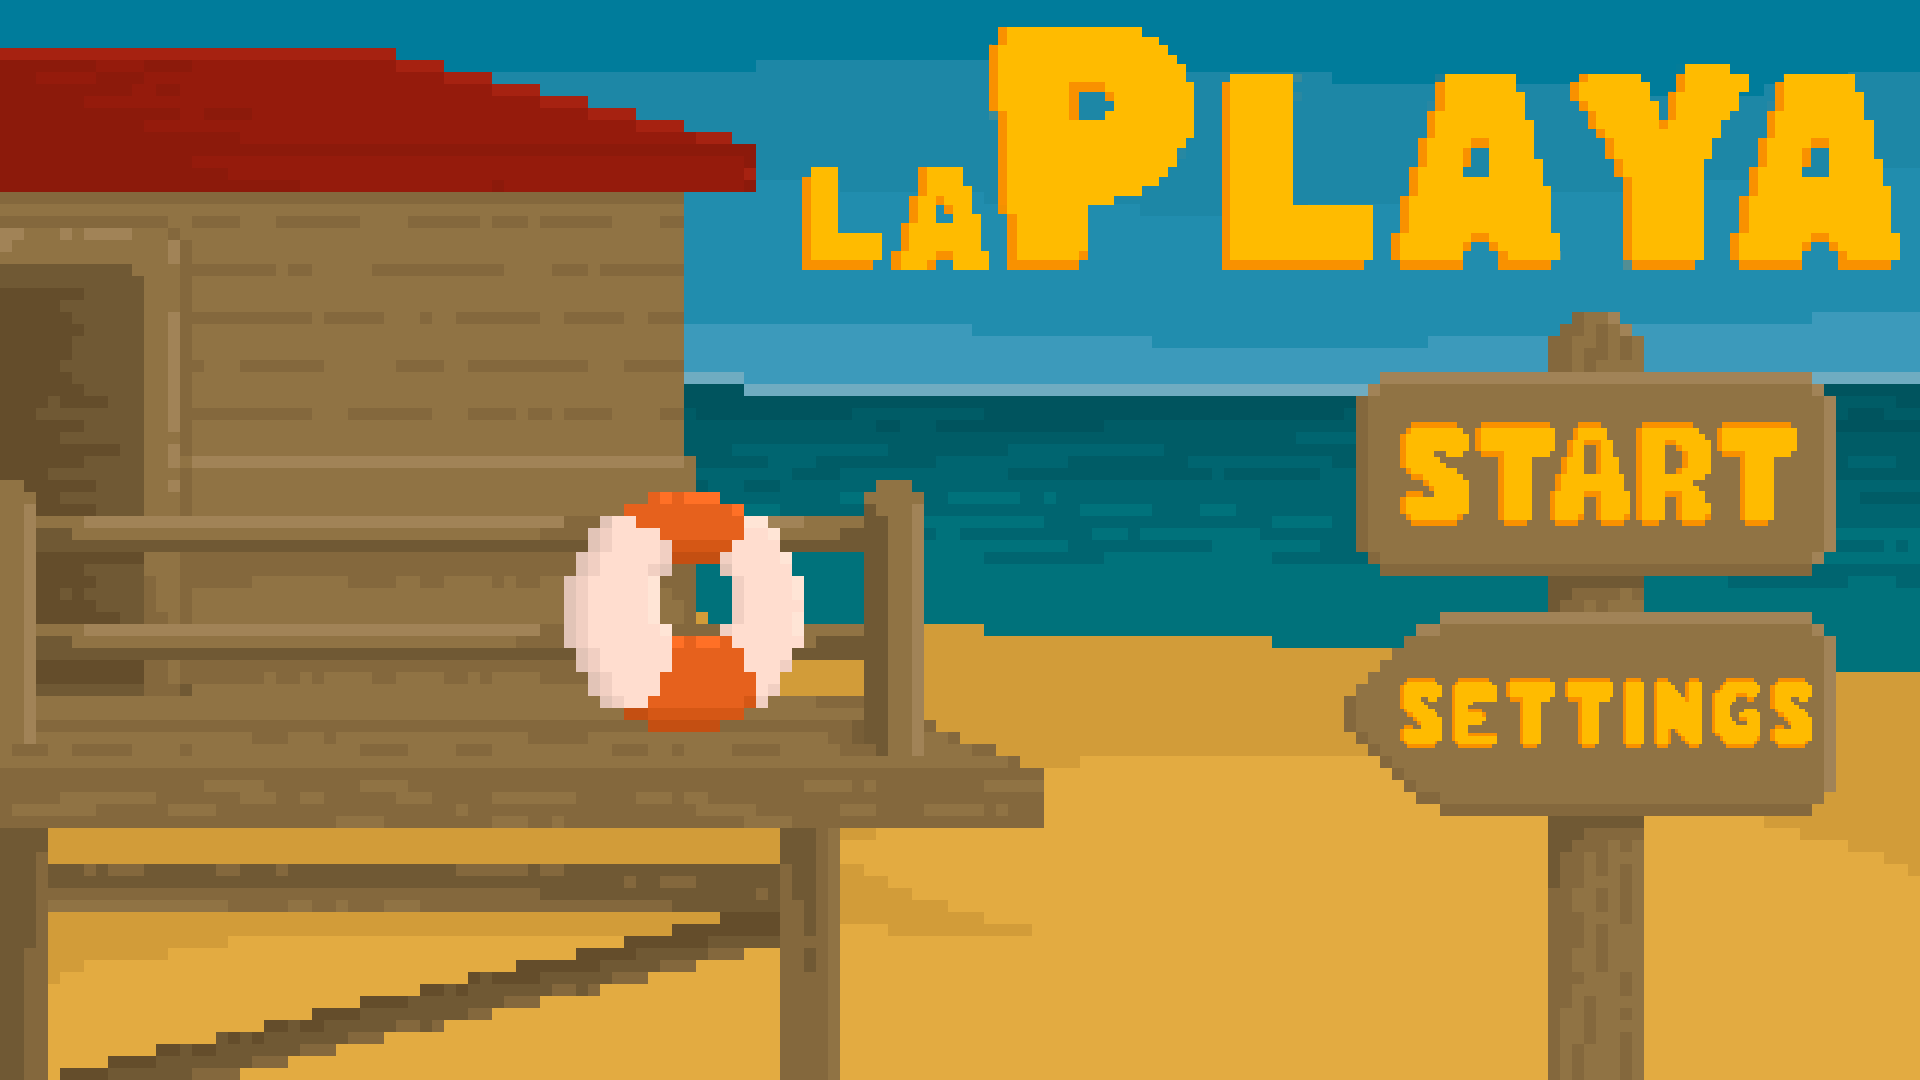
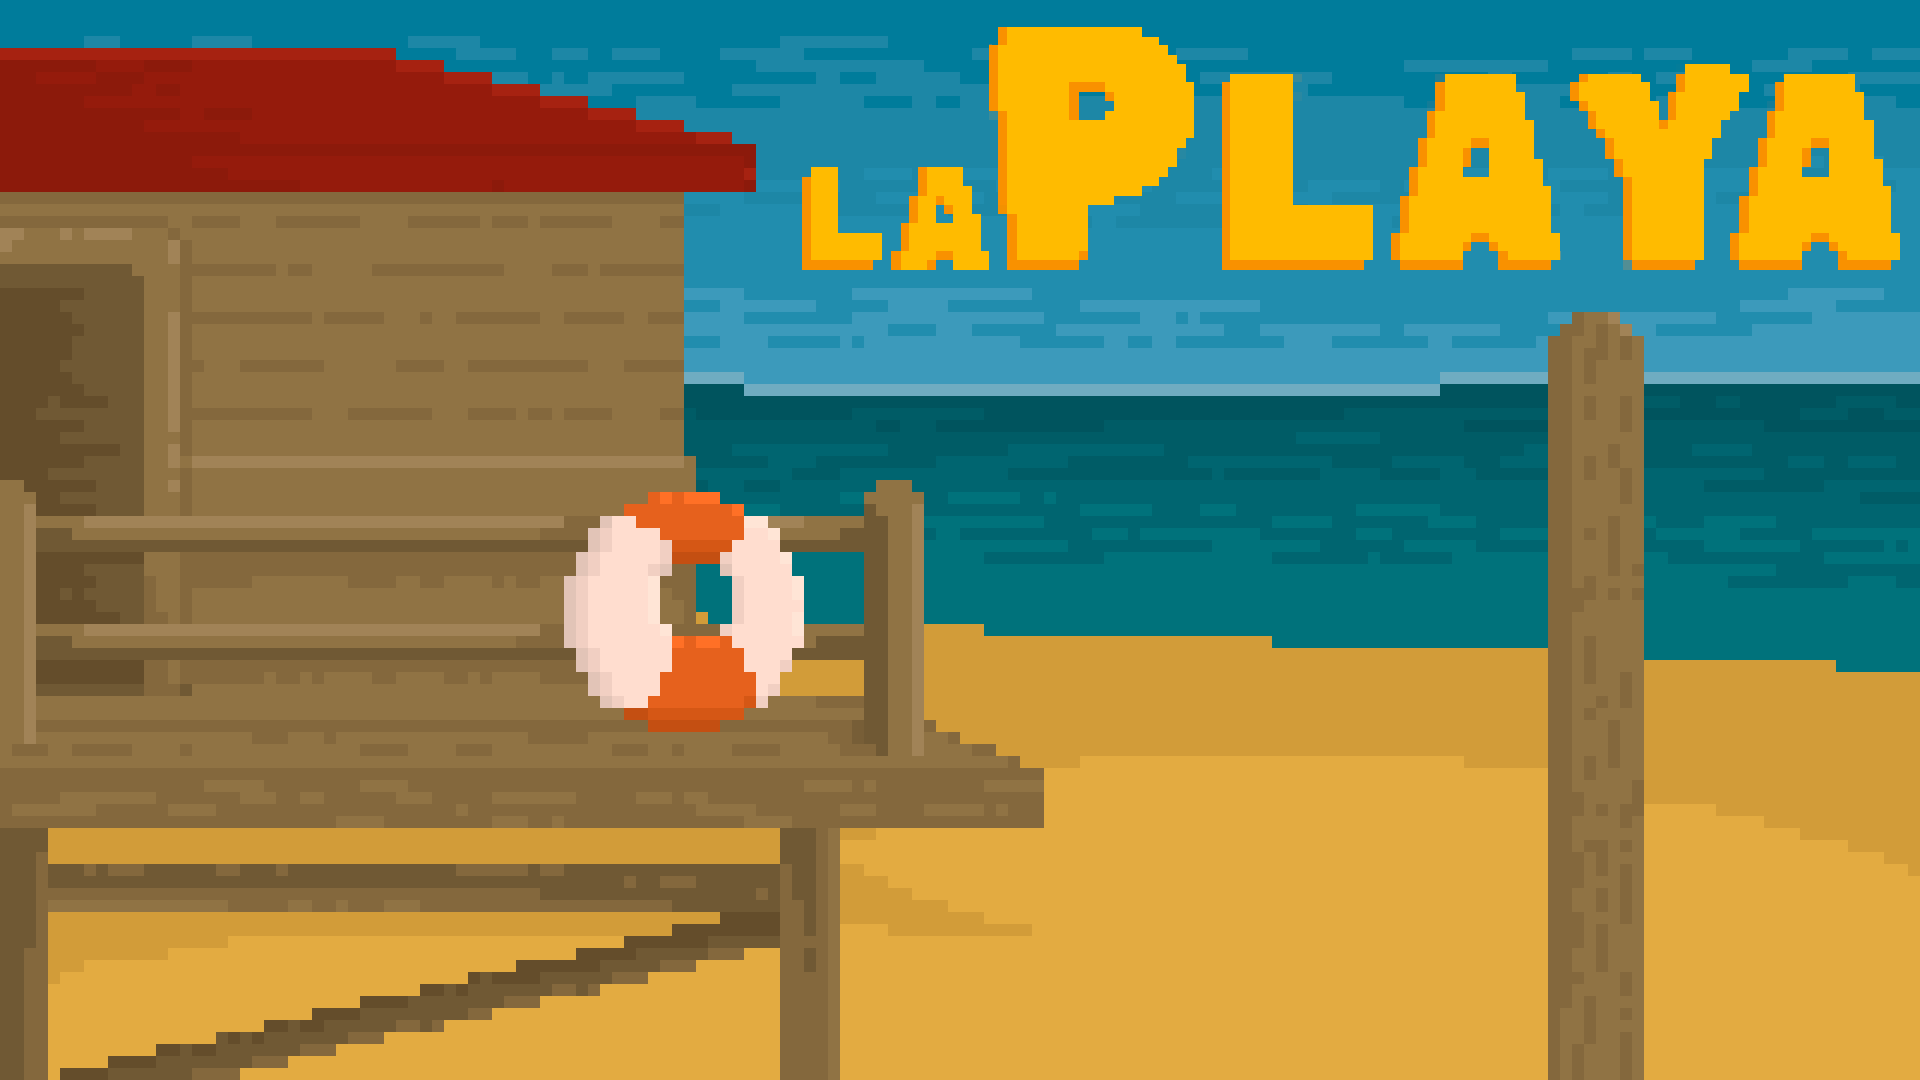
Ajuste en pantalla de inicio

diff --git a/js/pantallaInicial.js b/js/pantallaInicial.js
@@ -7,6 +7,14 @@ class Inicio{
         this.spriteBotonAjustesSeleccionado = null;
         this.spriteBotonInicioDeseleccionado = null;
         this.spriteBotonAjustesDeseleccionado = null;
+
+        this.anchoDeReferencia = 1920; 
+        this.altoDeReferencia = 1080;
+
+        this.posicionStart = { x: 1590, y: 474 };
+        this.posicionSettings = { x: 1590, y: 714 };
+
+        this.onResize = this.redimensionar.bind(this);
     }
 
     async precargarAssets(){
@@ -26,38 +34,63 @@ class Inicio{
         this.contenedor.addChild(this.imagenDeInicio);
 
         this.spriteBotonInicioSeleccionado = new PIXI.Sprite(this.botonInicioSeleccionado); 
-        this.spriteBotonInicioSeleccionado.scale.set(0.7, 0.6);
+        //this.spriteBotonInicioSeleccionado.scale.set(0.7, 0.6);
         this.spriteBotonInicioSeleccionado.anchor.set(0.5);
-        this.spriteBotonInicioSeleccionado.x = 1093;
-        this.spriteBotonInicioSeleccionado.y = 282;
         this.contenedor.addChild(this.spriteBotonInicioSeleccionado);
 
         this.spriteBotonInicioDeseleccionado = new PIXI.Sprite(this.botonInicioDeseleccionado); 
-        this.spriteBotonInicioDeseleccionado.scale.set(0.7, 0.6);
+        //this.spriteBotonInicioDeseleccionado.scale.set(0.7, 0.6);
         this.spriteBotonInicioDeseleccionado.anchor.set(0.5);
-        this.spriteBotonInicioDeseleccionado.x = 1093;
-        this.spriteBotonInicioDeseleccionado.y = 282;
         this.spriteBotonInicioDeseleccionado.visible = false;
         this.contenedor.addChild(this.spriteBotonInicioDeseleccionado);
 
         this.spriteBotonAjustesSeleccionado = new PIXI.Sprite(this.botonAjustesSeleccionado);
-        this.spriteBotonAjustesSeleccionado.scale.set(0.7, 0.6);
+        //this.spriteBotonAjustesSeleccionado.scale.set(0.7, 0.6);
         this.spriteBotonAjustesSeleccionado.anchor.set(0.5);
-        this.spriteBotonAjustesSeleccionado.x = 1093;
-        this.spriteBotonAjustesSeleccionado.y = 426;
         this.spriteBotonAjustesSeleccionado.visible = false;
         this.contenedor.addChild(this.spriteBotonAjustesSeleccionado);
 
         this.spriteBotonAjustesDeseleccionado = new PIXI.Sprite(this.botonAjustesDeseleccionado);
-        this.spriteBotonAjustesDeseleccionado.scale.set(0.7, 0.6);
+        //this.spriteBotonAjustesDeseleccionado.scale.set(0.7, 0.6);
         this.spriteBotonAjustesDeseleccionado.anchor.set(0.5);
-        this.spriteBotonAjustesDeseleccionado.x = 1093;
-        this.spriteBotonAjustesDeseleccionado.y = 426;
         this.contenedor.addChild(this.spriteBotonAjustesDeseleccionado);
 
         this.app.stage.addChild(this.contenedor);
+
+        this.redimensionar();
+
+        window.addEventListener("resize", this.onResize);
     }
     
+    redimensionar() {
+        const anchoVentana = window.innerWidth;
+        const altoVentana = window.innerHeight;
+
+        const escalaX = anchoVentana / this.anchoDeReferencia;
+        const escalaY = altoVentana / this.altoDeReferencia;
+
+        this.imagenDeInicio.width = anchoVentana;
+        this.imagenDeInicio.height = altoVentana;
+
+        const posXStart = this.posicionStart.x * escalaX;
+        const posYStart = this.posicionStart.y * escalaY;
+
+        const posXSettings = this.posicionSettings.x * escalaX;
+        const posYSettings = this.posicionSettings.y * escalaY;
+
+        this.spriteBotonInicioSeleccionado.position.set(posXStart, posYStart);
+        this.spriteBotonInicioDeseleccionado.position.set(posXStart, posYStart);
+
+        this.spriteBotonAjustesSeleccionado.position.set(posXSettings, posYSettings);
+        this.spriteBotonAjustesDeseleccionado.position.set(posXSettings, posYSettings);
+
+        const escalaBoton = Math.min(escalaX, escalaY);
+        this.spriteBotonInicioSeleccionado.scale.set(escalaBoton);
+        this.spriteBotonInicioDeseleccionado.scale.set(escalaBoton);
+        this.spriteBotonAjustesSeleccionado.scale.set(escalaBoton);
+        this.spriteBotonAjustesDeseleccionado.scale.set(escalaBoton);
+    }
+
     destruir() {
         this.app.stage.removeChild(this.contenedor);
         this.contenedor.destroy({ children: true });
